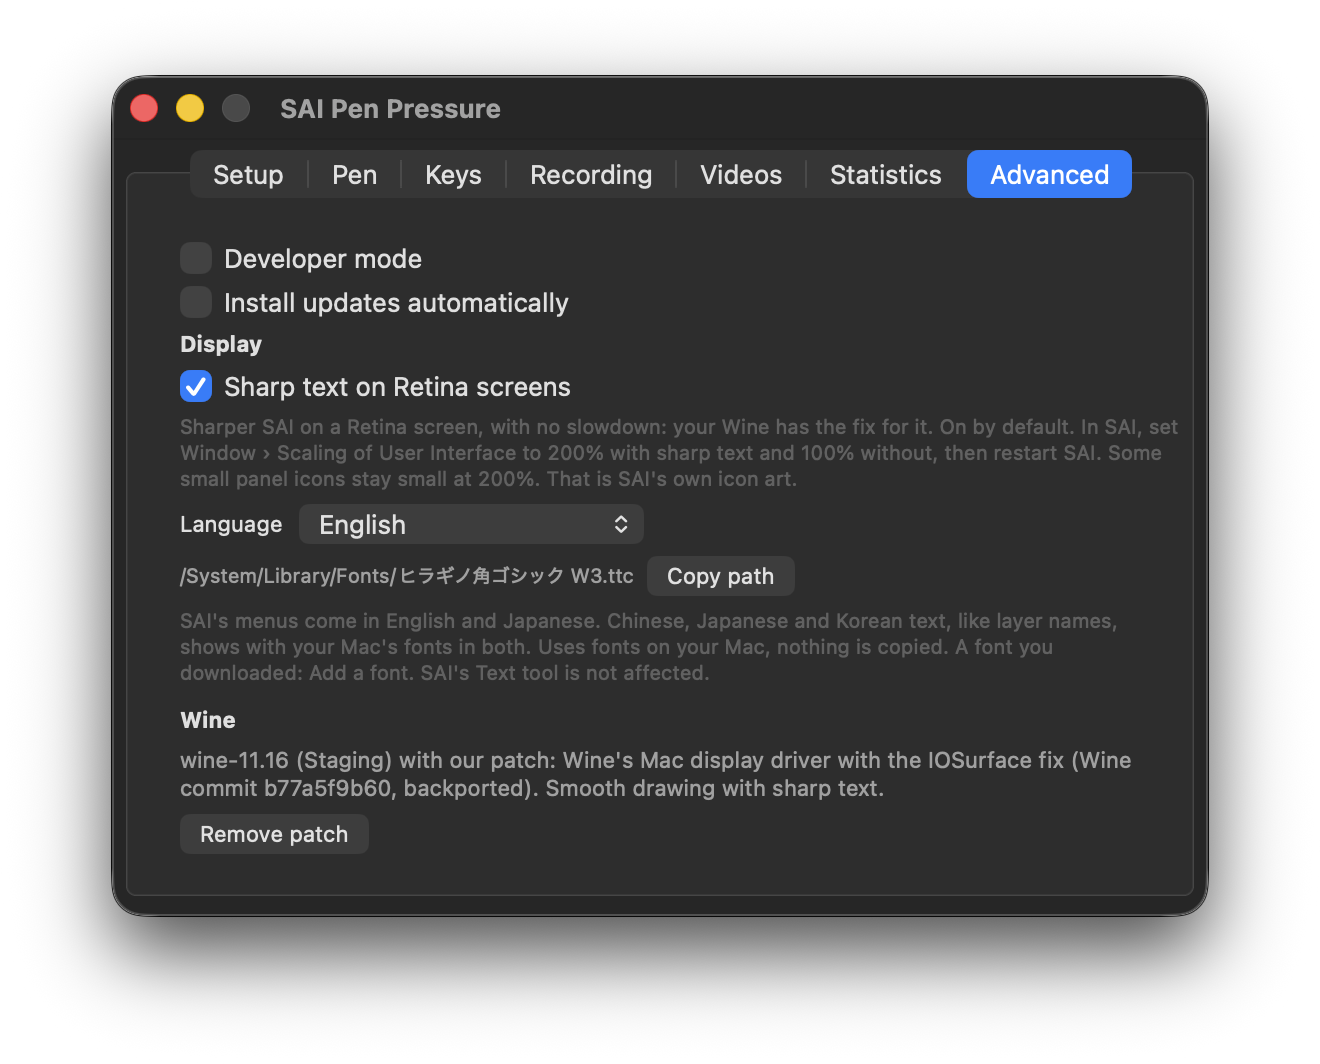
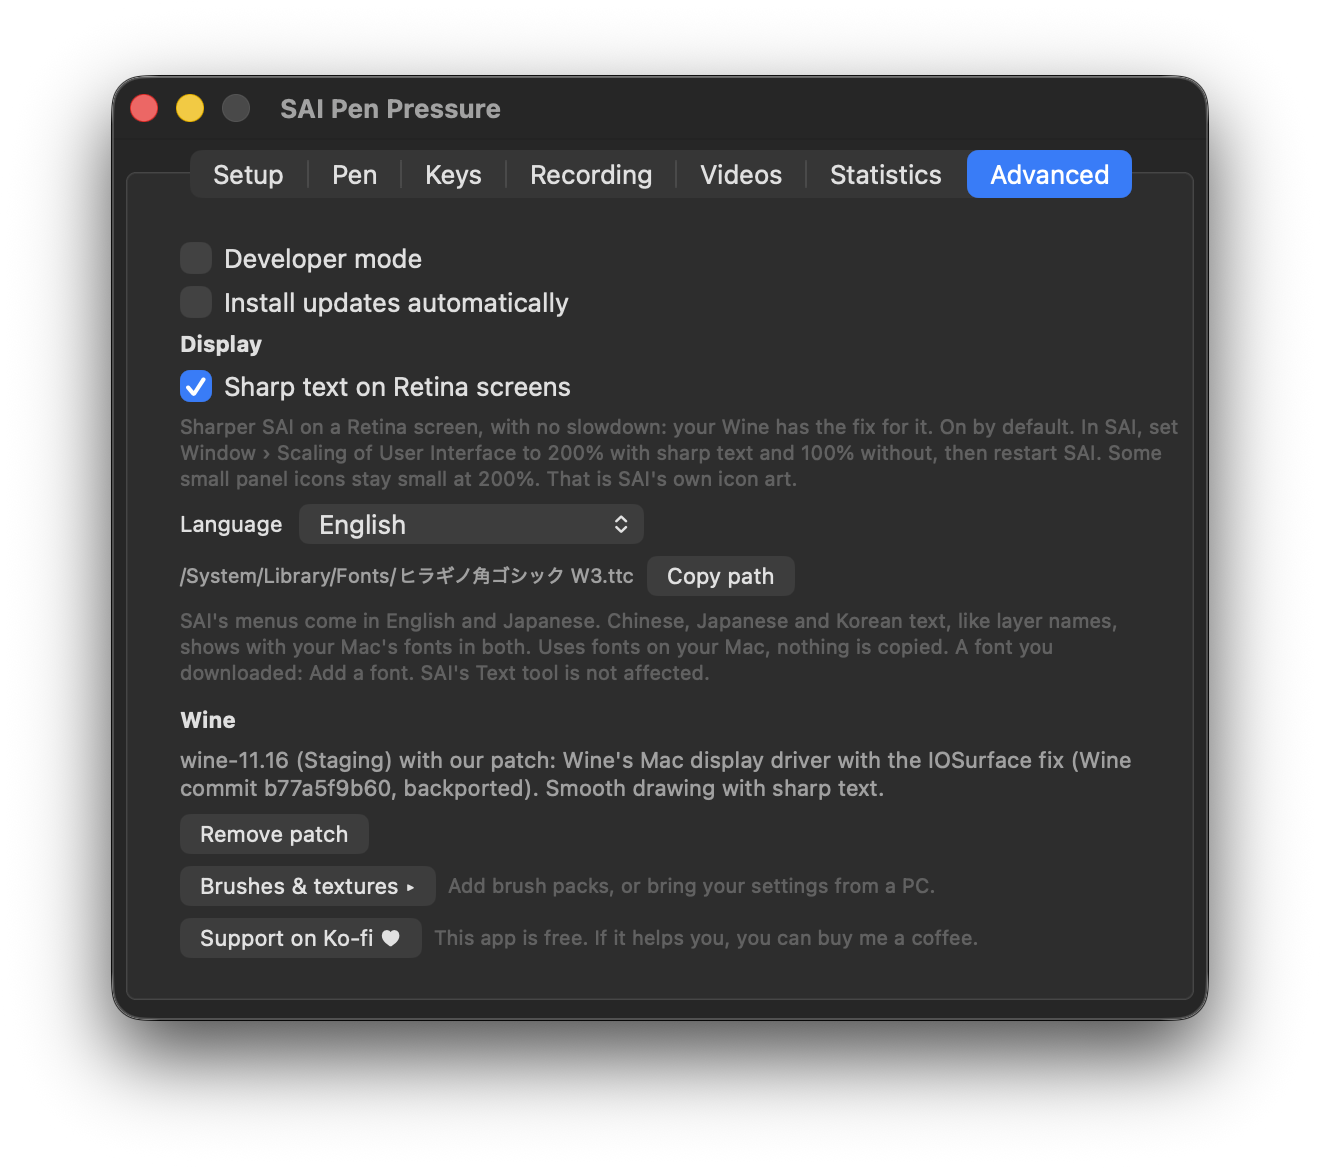
README: new Advanced screenshot with Brushes & textures and Ko-fi

diff --git a/README.md b/README.md
@@ -399,7 +399,7 @@ time, not what you drew or in which canvas.
 
 ### Advanced
 
-<p align="center"><a href="docs/assets/screenshots/advanced.png"><img src="docs/assets/screenshots/advanced.png" alt="The Advanced tab: Developer mode, Install updates automatically, Sharp text on Retina screens, the Language menu with the font in use, and the Wine in use." width="70%"></a></p>
+<p align="center"><a href="docs/assets/screenshots/advanced.png"><img src="docs/assets/screenshots/advanced.png" alt="The Advanced tab: Developer mode, Install updates automatically, Sharp text on Retina screens, the Language menu with the font in use, the Wine in use, Brushes & textures and Support on Ko-fi." width="70%"></a></p>
 
 - **Install updates automatically**, never while SAI is open.
 - **Display › Sharp text on Retina screens:** SAI at your screen's full resolution
